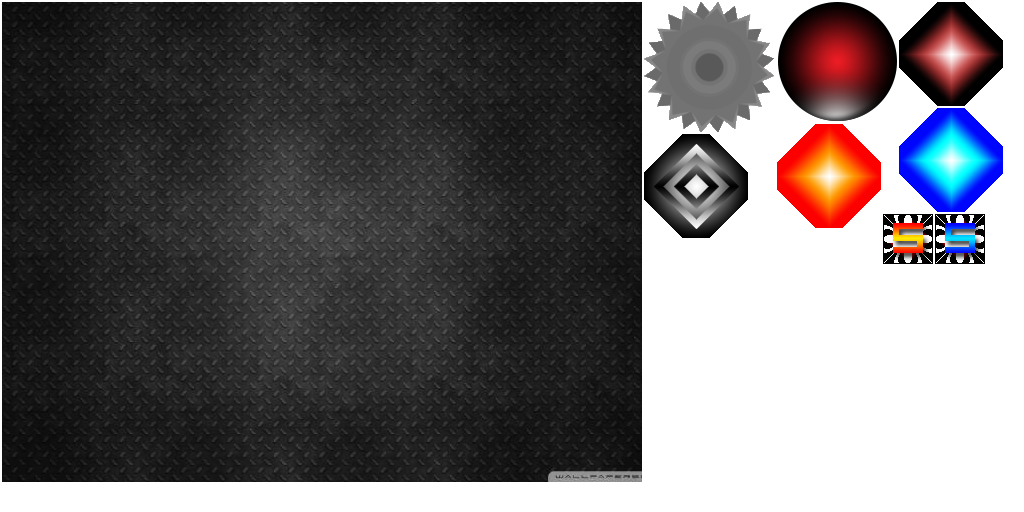
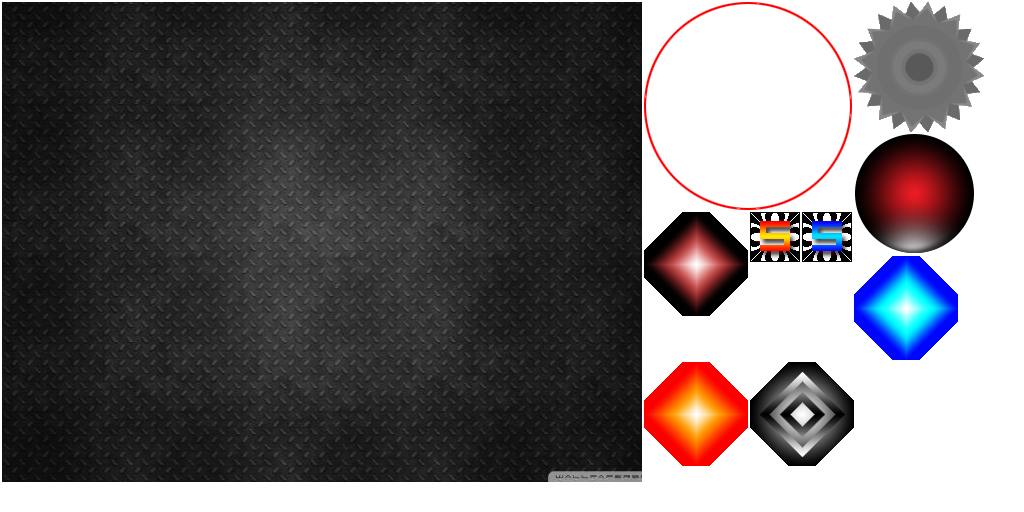
Created the Force Field!

Changed region(s): [[0.625, 0.0, 1.0, 0.7188], [0.625, 0.6875, 0.8438, 0.9062]]

diff --git a/platformRider/core/src/com/platform/rider/world/WorldController.java b/platformRider/core/src/com/platform/rider/world/WorldController.java
@@ -8,6 +8,7 @@ import com.badlogic.gdx.graphics.OrthographicCamera;
 import com.badlogic.gdx.math.Rectangle;
 import com.badlogic.gdx.math.Vector2;
 import com.badlogic.gdx.physics.box2d.*;
+import com.badlogic.gdx.physics.box2d.joints.WeldJointDef;
 import com.badlogic.gdx.utils.Array;
 import com.badlogic.gdx.utils.viewport.FitViewport;
 import com.badlogic.gdx.utils.viewport.Viewport;
@@ -34,6 +35,7 @@ public class WorldController {
     public ParticleBurstAnimation particleBurstAnimation;
     public Powerups powerups;
     public PowerupButton powerupButton;
+    public ForceField forceField;
     public HashMap<String, ParticleBurstAnimation> particleBurstHashMap = new HashMap<String, ParticleBurstAnimation>();
     public HashMap<String, Power> powerupHashMap = new HashMap<String, Power>();
     public HashMap<String, Explosion> explosionHashMap = new HashMap<String, Explosion>();
@@ -57,6 +59,7 @@ public class WorldController {
     int invisibleParticleCounter = 0;
     int deathSawCounter = 0;
     int powerUpCounter = 0;
+    int particleCreationCounter = 0;
     boolean gameOver = false;
     Array<Vector2> splitParticlePosition = new Array<Vector2>();
 
@@ -86,9 +89,19 @@ public class WorldController {
                 float xTouchScale = camera.viewportWidth / Gdx.graphics.getWidth();
                 float yTouchScale = camera.viewportHeight / Gdx.graphics.getHeight();
                 Vector2 touchPoint = new Vector2(x * xTouchScale, y * yTouchScale);
-                Rectangle powerupBound = powerupButton.getSprite().getBoundingRectangle();
-                if (OverlapTester.pointInRectangle(powerupBound, touchPoint)) {
-                    deployPowerup();
+                if (OverlapTester.pointInRectangle(powerupButton.getSprite().getBoundingRectangle(), touchPoint)) {
+                    forceField.changeCollisionFilter(GameConstants.SPRITE_8);
+                    //deployPowerup();
+                }
+                return true;
+            }
+            public boolean touchDown(int x, int y, int pointer, int button){
+                float xTouchScale = camera.viewportWidth / Gdx.graphics.getWidth();
+                float yTouchScale = camera.viewportHeight / Gdx.graphics.getHeight();
+                Vector2 touchPoint = new Vector2(x * xTouchScale, y * yTouchScale);
+                if (OverlapTester.pointInRectangle(powerupButton.getSprite().getBoundingRectangle(), touchPoint)) {
+                    forceField.changeCollisionFilter(GameConstants.SPRITE_7);
+                    //deployPowerup();
                 }
                 return true;
             }
@@ -108,9 +121,13 @@ public class WorldController {
     private void initPhysics() {
         world = new World(new Vector2(0, 0), true);
         createHero();
-        createParticles();
+        createForceField();
         createSpikes();
         createPowerButton();
+        WeldJointDef weldJointDef = new WeldJointDef();
+        weldJointDef.bodyA = hero.getBody();
+        weldJointDef.bodyB = forceField.getBody();
+        world.createJoint(weldJointDef);
     }
 
     private void initTouchpad() {
@@ -132,8 +149,11 @@ public class WorldController {
     }
 
     private void createParticles() {
-        for (int i = 0; i < 4; i++) {
+        if(particleCreationCounter > 10){
             createNewParticle(GameConstants.NORMAL_PARTICLE);
+            particleCreationCounter = 0;
+        }else{
+            particleCreationCounter++;
         }
     }
 
@@ -158,16 +178,29 @@ public class WorldController {
         powerupButton = new PowerupButton(position, world);
     }
 
-    private void createNewParticle(String type) {
-        Random r = new Random();
-        int xLow = -(GameConstants.APP_WIDTH / 2 - 100);
-        int xHigh = GameConstants.APP_WIDTH / 2 - 100;
-        int xR = r.nextInt(xHigh - xLow) + xLow;
+    private void createForceField() {
+        Vector2 position = new Vector2(0, 0);
+        forceField = new ForceField(position,world);
+    }
 
-        int yLow = -(GameConstants.APP_HEIGHT / 2 - 350);
-        int yHigh = GameConstants.APP_HEIGHT / 2 - 350;
-        int yR = r.nextInt(yHigh - yLow) + yLow;
-        Vector2 position = new Vector2(xR, yR);
+    private void createNewParticle(String type) {
+        Vector2 position;
+        while(true) {
+            Random r = new Random();
+            int xLow = -(GameConstants.APP_WIDTH / 2 - 100);
+            int xHigh = GameConstants.APP_WIDTH / 2 - 100;
+            int xR = r.nextInt(xHigh - xLow) + xLow;
+
+            int yLow = -(GameConstants.APP_HEIGHT / 2 - 350);
+            int yHigh = GameConstants.APP_HEIGHT / 2 - 350;
+            int yR = r.nextInt(yHigh - yLow) + yLow;
+            position = new Vector2(xR, yR);
+
+            if (!OverlapTester.pointInRectangle(forceField.getSprite().getBoundingRectangle(), position)) {
+                break;
+            }
+        }
+
         Particle particle = new Particle(position, world, totalParticlesCreated, type);
         //increment the number of particles created count
         particleHashMap.put(String.valueOf(totalParticlesCreated++), particle);
@@ -175,10 +208,12 @@ public class WorldController {
     }
 
     private void createSplitParticle(Vector2 position) {
-        Particle particle = new Particle(position, world, totalParticlesCreated, GameConstants.SPLIT_PARTICLE);
-        //increment the number of particles created count
-        particleHashMap.put(String.valueOf(totalParticlesCreated++), particle);
-        totalParticlesAlive++;
+        if (!OverlapTester.pointInRectangle(forceField.getSprite().getBoundingRectangle(), position)) {
+            Particle particle = new Particle(position, world, totalParticlesCreated, GameConstants.SPLIT_PARTICLE);
+            //increment the number of particles created count
+            particleHashMap.put(String.valueOf(totalParticlesCreated++), particle);
+            totalParticlesAlive++;
+        }
     }
 
     private void createSpikes() {
@@ -273,10 +308,11 @@ public class WorldController {
             increaseDifficulty();
             checkBonusStreak();
             checkPowerups();
+            createParticles();
             createRandomPowerup();
             createSplitParticles();
             createSuicideParticles();
-            createInvisibleParticles();
+            //createInvisibleParticles();
             createDeathSaw();
             camera.update();
             //Touch pad readings
@@ -284,8 +320,10 @@ public class WorldController {
             //If touchpad readings are zero dont alter velocity of hero
             if (touchPadVec.x != 0 && touchPadVec.y != 0) {
                 hero.getBody().setLinearVelocity(touchPadVec);
+                forceField.getBody().setLinearVelocity(touchPadVec);
             }
             updateHero();
+            updateForceField();
             updateParticles();
             updateSpikes();
             updateDeathSaws();
@@ -298,6 +336,13 @@ public class WorldController {
         hero.getSprite().setPosition((hero.getBody().getPosition().x * GameConstants.PIXELS_TO_METERS) - hero.getSprite().
                         getWidth() / 2,
                 (hero.getBody().getPosition().y * GameConstants.PIXELS_TO_METERS) - hero.getSprite().getHeight() / 2
+        );
+    }
+
+    private void updateForceField() {
+        forceField.getSprite().setPosition((forceField.getBody().getPosition().x * GameConstants.PIXELS_TO_METERS) - forceField.getSprite().
+                        getWidth() / 2,
+                (forceField.getBody().getPosition().y * GameConstants.PIXELS_TO_METERS) - forceField.getSprite().getHeight() / 2
         );
     }
 
@@ -324,9 +369,7 @@ public class WorldController {
             score++;
             totalParticlesAlive--;
             //create a new particle
-            if (type.equals(GameConstants.NORMAL_PARTICLE)) {
-                createNewParticle(GameConstants.NORMAL_PARTICLE);
-            } else if (type.equals(GameConstants.SPLIT_PARTICLE)) {
+            if (type.equals(GameConstants.SPLIT_PARTICLE)) {
                 splitParticlesAlive--;
             } else if (type.equals(GameConstants.SUICIDE_PARTICLE)) {
                 GameConstants.FRAME_DURATION = 0.025f;
@@ -707,7 +750,7 @@ public class WorldController {
 
         @Override
         public void endContact(Contact contact) {
-            if (contact.getFixtureA().getFilterData().categoryBits == GameConstants.SPRITE_2 && contact.getFixtureB().getFilterData().categoryBits == GameConstants.SPRITE_1) {
+            if (contact.getFixtureA().getFilterData().categoryBits == GameConstants.SPRITE_7 && contact.getFixtureB().getFilterData().categoryBits == GameConstants.SPRITE_1) {
                 Particle particle = particleHashMap.get(contact.getFixtureB().getBody().getUserData().toString());
                 Vector2 inverseNormal = new Vector2(-particle.getNormaliseVector().x * GameConstants.COLLISION_SPEED * (1 / scale), -particle.getNormaliseVector().y * GameConstants.COLLISION_SPEED * (1 / scale));
                 contact.getFixtureB().getBody().setLinearVelocity(inverseNormal);
@@ -733,6 +776,10 @@ public class WorldController {
                 gameOver = true;
             }
             if (contact.getFixtureA().getFilterData().categoryBits == GameConstants.SPRITE_2 && contact.getFixtureB().getFilterData().categoryBits == GameConstants.SPRITE_4) {
+                createParticleBurst("-1", contact.getFixtureA().getBody().getPosition(), GameConstants.HERO_PARTICLE);
+                gameOver = true;
+            }
+            if (contact.getFixtureA().getFilterData().categoryBits == GameConstants.SPRITE_2 && contact.getFixtureB().getFilterData().categoryBits == GameConstants.SPRITE_1) {
                 createParticleBurst("-1", contact.getFixtureA().getBody().getPosition(), GameConstants.HERO_PARTICLE);
                 gameOver = true;
             }

diff --git a/platformRider/core/src/com/platform/rider/sprites/ForceField.java b/platformRider/core/src/com/platform/rider/sprites/ForceField.java
@@ -1,0 +1,104 @@
+package com.platform.rider.sprites;
+
+import com.badlogic.gdx.graphics.g2d.Sprite;
+import com.badlogic.gdx.graphics.g2d.SpriteBatch;
+import com.badlogic.gdx.math.MathUtils;
+import com.badlogic.gdx.math.Vector2;
+import com.badlogic.gdx.physics.box2d.Body;
+import com.badlogic.gdx.physics.box2d.BodyDef;
+import com.badlogic.gdx.physics.box2d.Filter;
+import com.badlogic.gdx.physics.box2d.World;
+import com.platform.rider.assets.Assets;
+import com.platform.rider.utils.GameConstants;
+
+import java.util.ArrayList;
+
+/**
+ * Created by Gayan on 6/27/2015.
+ */
+public class ForceField extends AbstractGameObject {
+
+    ArrayList<Vector2> vertices = new ArrayList<Vector2>();
+    float theta;  // angle that will be increased each loop
+    float radius = 0;
+    float h = 0;      // x coordinate of circle center
+    float k = 0;      // y coordinate of circle center
+    float step = 15 * MathUtils.degreesToRadians;  // amount to add to theta each time (degrees)
+
+    public ForceField(Vector2 position, World world) {
+        init(position, world);
+    }
+
+    private void init(Vector2 position, World world) {
+        this.world = world;
+        this.position = position;
+        textureRegion = Assets.instance.assetForceField.forceField;
+        sprite = new Sprite(textureRegion);
+        sprite.setSize(sprite.getWidth() * GameConstants.PARTICLE_SPRITE_SCALE, sprite.getHeight()*GameConstants.PARTICLE_SPRITE_SCALE);
+        sprite.setPosition(-sprite.getWidth() / 2, -sprite.getHeight() / 2);
+        radius = (sprite.getWidth() / 2) / GameConstants.PIXELS_TO_METERS;
+        //createCircleVertices();
+        //createChainLoop();
+        bodyDef.type = BodyDef.BodyType.DynamicBody;
+        bodyDef.position.set(0,0);
+
+        body = world.createBody(bodyDef);
+        body.setFixedRotation(true);
+        body.setUserData("forceField");
+        //body.setLinearDamping(GameConstants.LINEAR_DAMPING);
+        shape.setRadius((sprite.getWidth() / 2) /
+                GameConstants.PIXELS_TO_METERS);
+        /*shape.setAsBox(sprite.getWidth() / 2 / GameConstants.PIXELS_TO_METERS, sprite.getHeight()
+                / 2 / GameConstants.PIXELS_TO_METERS);*/
+
+        fixtureDef.shape = shape;
+        //fixtureDef.density = 0.2f;
+        //fixtureDef.restitution = 0.5f;
+        fixtureDef.filter.categoryBits = GameConstants.SPRITE_7;
+        fixtureDef.filter.maskBits = GameConstants.SPRITE_1 | GameConstants.SPRITE_2 | GameConstants.SPRITE_3 | GameConstants.SPRITE_4 | GameConstants.SPRITE_6;
+
+        body.createFixture(fixtureDef);
+        chainShape.dispose();
+    }
+
+    private void createCircleVertices(){
+        for(theta = 0; theta < 360 * MathUtils.degreesToRadians; theta+=step){
+            float x = h + radius* MathUtils.cos(theta);
+            float y = k - radius* MathUtils.sin(theta);
+            Vector2 vertex = new Vector2(x,y);
+            vertices.add(vertex);
+        }
+    }
+
+    private void createChainLoop(){
+        Vector2[] vector2Array = new Vector2[vertices.size()];
+        for(int i = 0; i < vertices.size(); i++){
+            vector2Array[i] = vertices.get(i);
+        }
+        chainShape.createChain(vector2Array);
+    }
+
+    public void changeCollisionFilter(short filterType) {
+        Filter filter = body.getFixtureList().get(0).getFilterData();
+        filter.categoryBits = filterType;
+        body.getFixtureList().get(0).setFilterData(filter);
+    }
+
+    public Body getBody() {
+        return body;
+    }
+
+    public Sprite getSprite() {
+        return sprite;
+    }
+
+    @Override
+    public void render(SpriteBatch batch) {
+        batch.draw(sprite,
+                sprite.getX(), sprite.getY(),
+                sprite.getOriginX(),sprite.getOriginY(),
+                sprite.getWidth(), sprite.getHeight(),
+                sprite.getScaleX(), sprite.getScaleY(), sprite.getRotation()
+        );
+    }
+}

diff --git a/platformRider/core/src/com/platform/rider/assets/Assets.java b/platformRider/core/src/com/platform/rider/assets/Assets.java
@@ -22,6 +22,7 @@ public class Assets implements Disposable, AssetErrorListener {
 
     public AssetParticle assetParticle;
     public AssetHero assetHero;
+    public AssetForceField assetForceField;
     public AssetSpike assetSpike;
     public AssetPowerup assetPowerup;
     public AssetLevelDecoration assetLevelDecoration;
@@ -171,6 +172,7 @@ public class Assets implements Disposable, AssetErrorListener {
         fonts = new AssetFonts();
         assetParticle = new AssetParticle(atlas);
         assetHero = new AssetHero(atlas);
+        assetForceField = new AssetForceField(atlas);
         assetSpike = new AssetSpike(atlas);
         assetPowerup = new AssetPowerup(atlas);
         assetLevelDecoration = new AssetLevelDecoration(atlas);
@@ -220,6 +222,14 @@ public class Assets implements Disposable, AssetErrorListener {
 
         public AssetHero(TextureAtlas atlas) {
             hero = atlas.findRegion("hero");
+        }
+    }
+
+    public class AssetForceField {
+        public final TextureAtlas.AtlasRegion forceField;
+
+        public AssetForceField(TextureAtlas atlas) {
+            forceField = atlas.findRegion("forceField");
         }
     }
 

diff --git a/platformRider/core/src/com/platform/rider/utils/GameConstants.java b/platformRider/core/src/com/platform/rider/utils/GameConstants.java
@@ -14,6 +14,8 @@ public class GameConstants {
     public static final short SPRITE_4 = 0x1 << 3; // 0010 or 0x4 in hex - Invisible particle deadly
     public static final short SPRITE_5 = 0x1 << 4; // 0010 or 0x4 in hex - Invisible particle invulnerable
     public static final short SPRITE_6 = 0x1 << 5; // 0010 or 0x4 in hex - Powerup
+    public static final short SPRITE_7 = 0x1 << 6; // 0010 or 0x4 in hex - Force Field Active
+    public static final short SPRITE_8 = 0x1 << 7; // 0010 or 0x4 in hex - Force Field Inactive
     public static float PARTICLE_SPRITE_SCALE = 0.5f;
     public static float NORMAL_PARTICAL_SPEED = 5f;
     public static float SPLIT_PARTICAL_SPEED = 7f;

diff --git a/platformRider/core/src/com/platform/rider/worldRenderer/WorldRenderer.java b/platformRider/core/src/com/platform/rider/worldRenderer/WorldRenderer.java
@@ -54,6 +54,7 @@ public class WorldRenderer {
         batch.begin();
         if (!worldController.isGameOver()) {
             worldController.hero.render(batch);
+            worldController.forceField.render(batch);
         }
         renderParticles();
         renderSpikes();
@@ -62,7 +63,7 @@ public class WorldRenderer {
         renderExplosion(batch);
         renderParticleBurst(batch);
         batch.end();
-        //b2debugRenderer.render(worldController.world, debugMatrix);
+        b2debugRenderer.render(worldController.world, debugMatrix);
         worldController.touchPadHelper.render();
     }
 

diff --git a/platformRider/core/src/com/platform/rider/sprites/Hero.java b/platformRider/core/src/com/platform/rider/sprites/Hero.java
@@ -58,7 +58,7 @@ public class Hero extends AbstractGameObject {
         fixtureDef.density = 0.2f;
         fixtureDef.restitution = 0.5f;
         fixtureDef.filter.categoryBits = GameConstants.SPRITE_2;
-        fixtureDef.filter.maskBits = GameConstants.SPRITE_1 | GameConstants.SPRITE_3 | GameConstants.SPRITE_4 | GameConstants.SPRITE_6;
+        fixtureDef.filter.maskBits = GameConstants.SPRITE_1 | GameConstants.SPRITE_3 | GameConstants.SPRITE_4 | GameConstants.SPRITE_6 | GameConstants.SPRITE_7;
 
         body.createFixture(fixtureDef);
         shape.dispose();

diff --git a/platformRider/core/src/com/platform/rider/sprites/Particle.java b/platformRider/core/src/com/platform/rider/sprites/Particle.java
@@ -102,7 +102,7 @@ public class Particle extends AbstractGameObject {
         fixtureDef.density = 0.1f;
         fixtureDef.restitution = 0.1f;
         fixtureDef.filter.categoryBits = GameConstants.SPRITE_1;
-        fixtureDef.filter.maskBits = GameConstants.SPRITE_2 | GameConstants.SPRITE_1 | GameConstants.SPRITE_3;
+        fixtureDef.filter.maskBits = GameConstants.SPRITE_2 | GameConstants.SPRITE_1 | GameConstants.SPRITE_3 | GameConstants.SPRITE_7;
 
         body.createFixture(fixtureDef);
         shape.dispose();

diff --git a/platformRider/core/src/com/platform/rider/sprites/AbstractGameObject.java b/platformRider/core/src/com/platform/rider/sprites/AbstractGameObject.java
@@ -20,6 +20,7 @@ public abstract class AbstractGameObject {
     Body body;
     BodyDef bodyDef = new BodyDef();
     CircleShape shape = new CircleShape();
+    ChainShape chainShape = new ChainShape();
     FixtureDef fixtureDef = new FixtureDef();
     Vector2 position = new Vector2();
 
